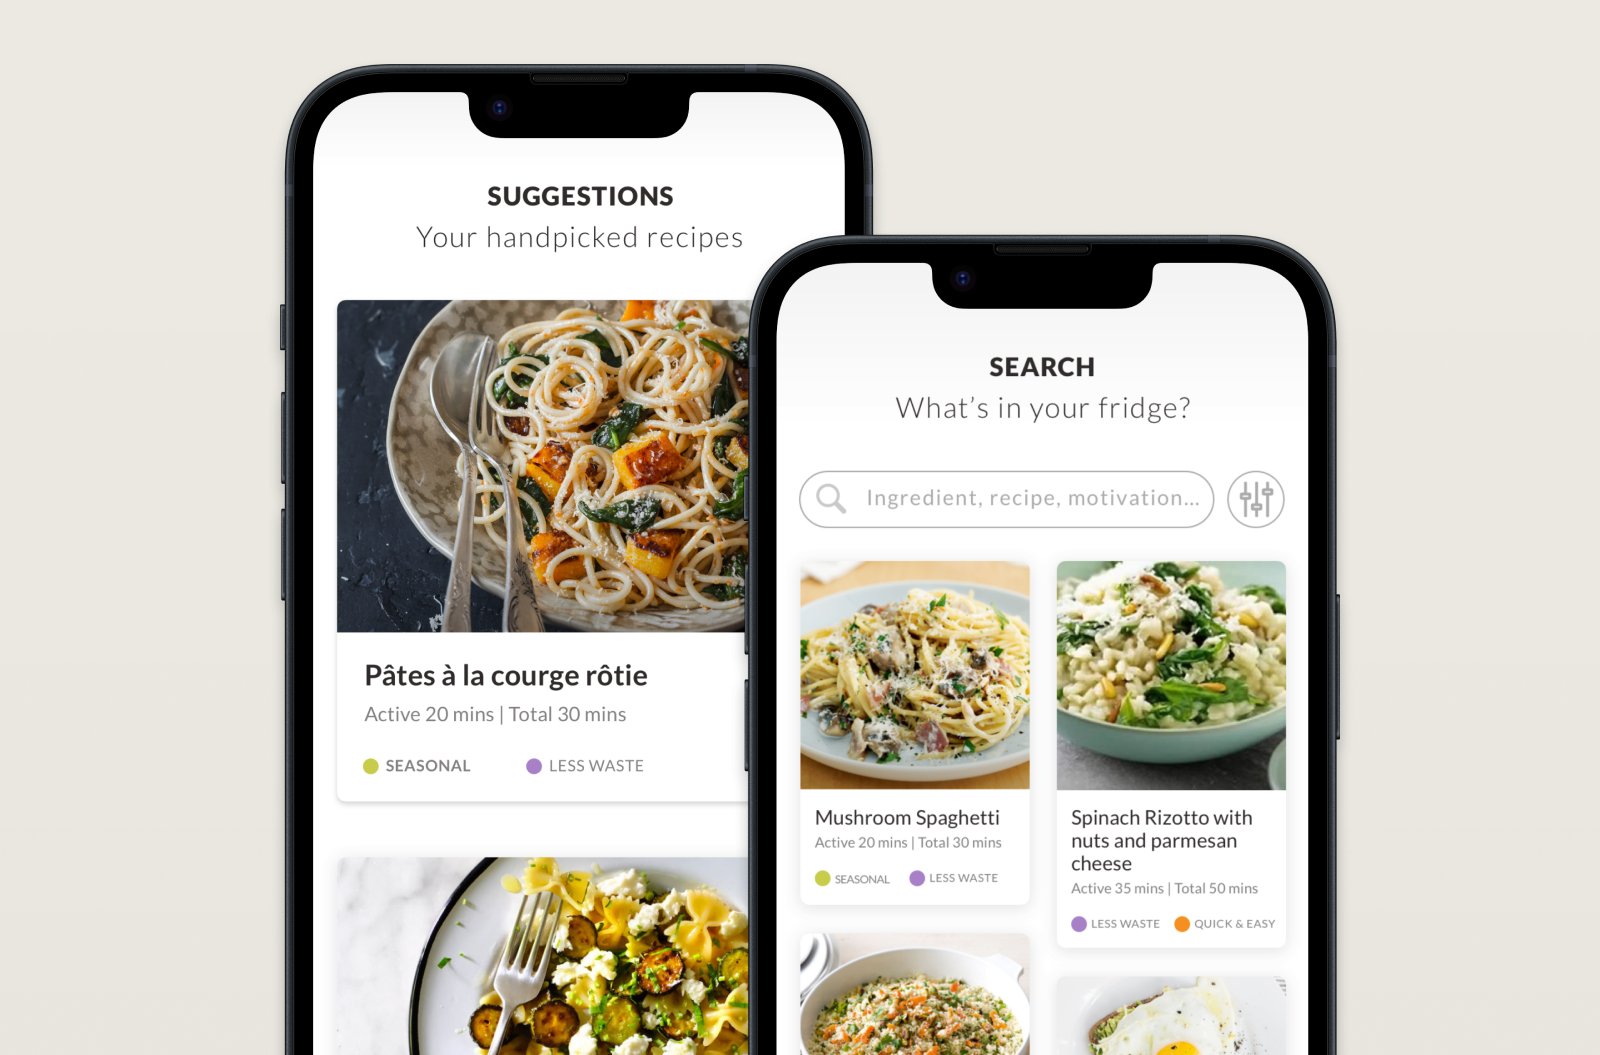
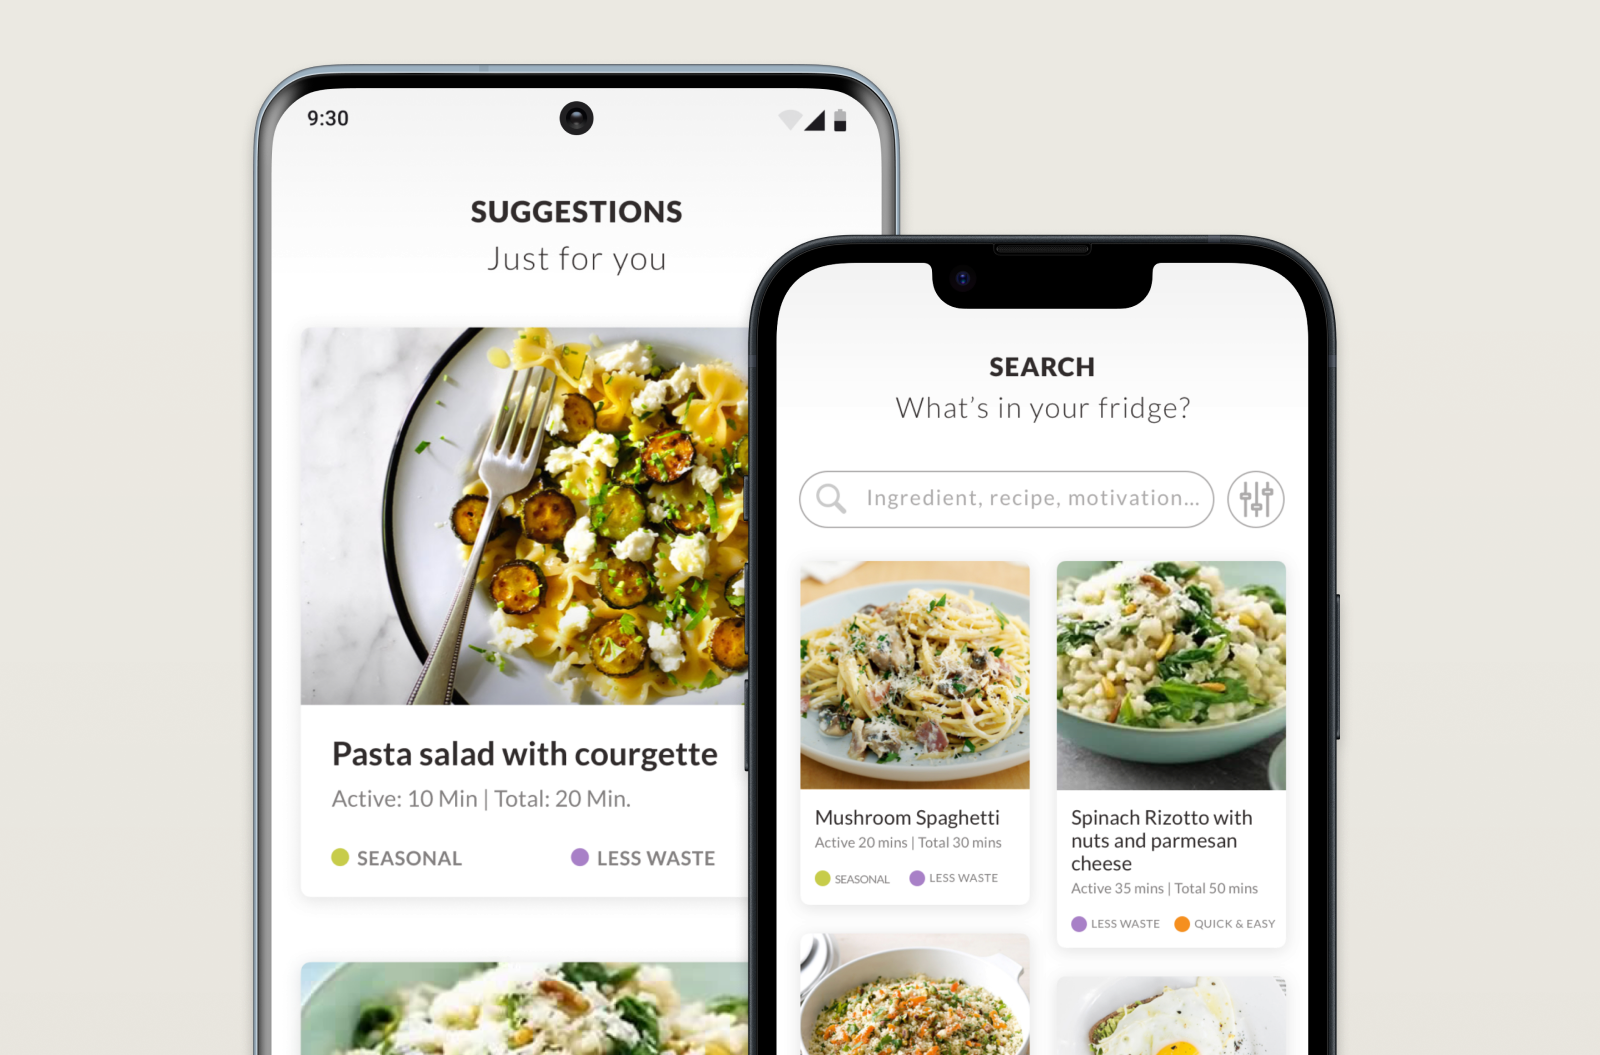
MyFoodways: re-export product figure with updated suggestions phone

Changed region(s): [[0.1562, 0.0607, 0.5625, 1.0]]

diff --git a/HANDOFF.md b/HANDOFF.md
@@ -2,6 +2,12 @@
 
 Last updated: 2026-09-29 (session 27)
 
+## What changed in this session (2026-09-29, session 27, MyFoodways image)
+
+- Re-exported `MFW-01-product.png` (1600×1055) from Figma `m1vVaKCwVkvG4AtieNx7NW` ("MyFoodways"), node `193:4558`, overwriting the file in place. Miguel updated the left phone: now an Android device showing the "Just for you" suggestions screen (pasta salad with courgette), was an iPhone with "Your handpicked recipes". The right phone (search screen) is unchanged.
+- No mdx change: the figure's alt and caption describe only the search screen, so they still hold.
+- On branch `mfw-product-image`, merged via PR. Build clean (8 pages, 0/0/0).
+
 ## What changed in this session (2026-09-29, session 27, continued)
 
 **Status: `tf-image-updates` merged to `main` via PR #6 (`606faca`) and live on migueljss.com.** Deploy succeeded; the live Team Files page shows the new design system figure and the corrected onboarding paragraph. The batch was merged before the remaining Team Files images were in, at Miguel's call; any further TF images go in a new branch. The `tf-image-updates` branch still exists locally and on origin.
